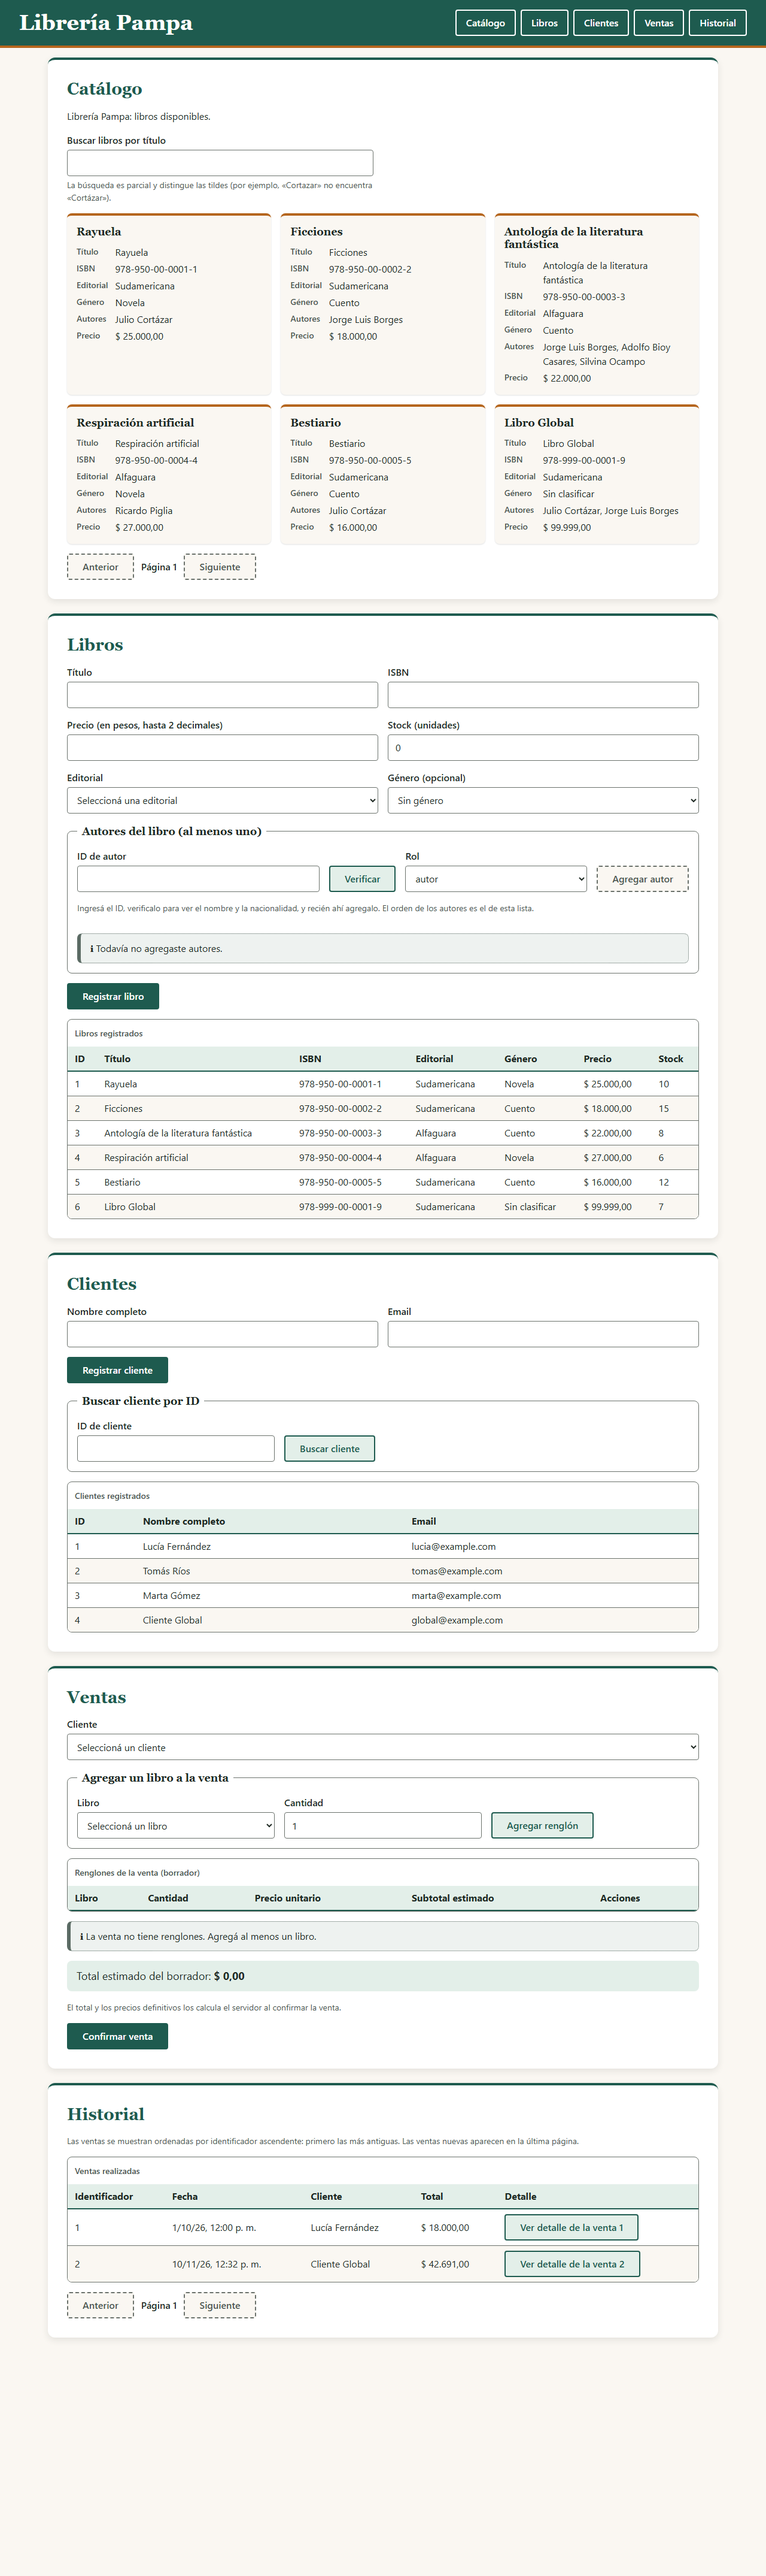
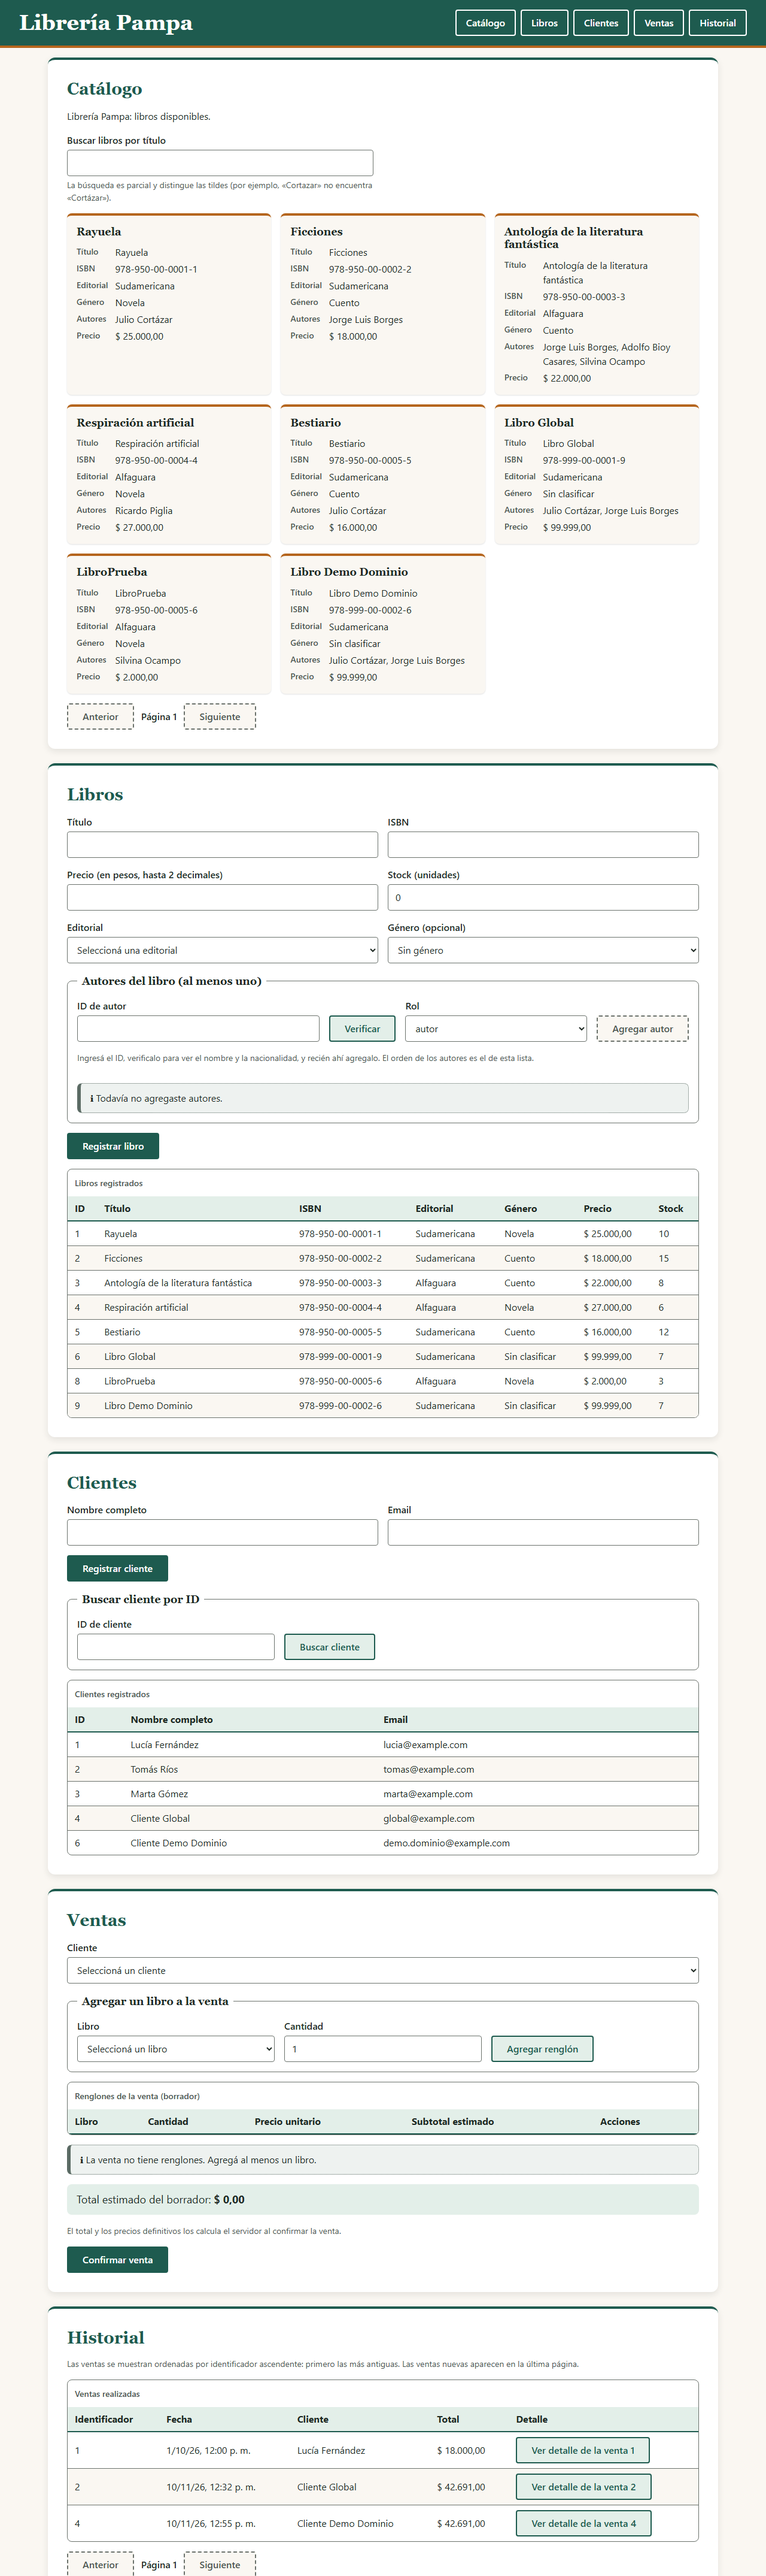
G-07: evidencia de redespliegue, dominio propio y DEPLOY.md actualizado

diff --git a/evidencia/pruebas-G01-G06-url-publica.md b/evidencia/pruebas-G01-G06-url-publica.md
@@ -1,7 +1,7 @@
 # Evidencia de pruebas G-01 a G-06
 
-- Ejecutado: 2026-11-10 12:32 (hora local)
-- Origen probado: `https://grupo1-chicas-frontend-libreria.ugpvou.easypanel.host` (URL pública HTTPS en Easypanel: frontend Nginx -> proxy `/api/` -> backend FastAPI -> PostgreSQL)
+- Ejecutado: 2026-11-10 12:55 (hora local)
+- Origen probado: `https://libreria.agusfontagnol.me` (HTTPS: frontend Nginx -> proxy `/api/` -> backend FastAPI -> PostgreSQL)
 - Datos: ficticios (seed del backend + los creados en estos casos)
 - Las respuestas son las devueltas por la API en la ejecución; no están editadas.
 
@@ -69,6 +69,10 @@ HTTP **200** ✅
   {
     "id": 5,
     "titulo": "Bestiario"
+  },
+  {
+    "id": 6,
+    "titulo": "Libro Global"
   }
 ]
 ```
@@ -121,15 +125,15 @@ HTTP **200** ✅
 
 **Alta con stock, sin género y con dos autorías**
 
-`POST /libros/` con cuerpo `{"titulo": "Libro Global", "isbn": "978-999-00-0001-9", "precio": "12345.50", "stock": 7, "editorial_id": 1, "genero_id": null, "autores": [{"autor_id": 1, "rol": "autor", "orden": 1}, {"autor_id": 2, "rol": "traductor", "orden": 2}]}`
+`POST /libros/` con cuerpo `{"titulo": "Libro Demo Dominio", "isbn": "978-999-00-0002-6", "precio": "12345.50", "stock": 7, "editorial_id": 1, "genero_id": null, "autores": [{"autor_id": 1, "rol": "autor", "orden": 1}, {"autor_id": 2, "rol": "traductor", "orden": 2}]}`
 
 HTTP **201** ✅
 
 ```json
 {
-  "id": 6,
-  "isbn": "978-999-00-0001-9",
-  "titulo": "Libro Global",
+  "id": 9,
+  "isbn": "978-999-00-0002-6",
+  "titulo": "Libro Demo Dominio",
   "precio": "12345.50",
   "stock": 7,
   "editorial": {
@@ -163,15 +167,15 @@ HTTP **201** ✅
 
 **Consultar el detalle del libro creado**
 
-`GET /libros/6`
+`GET /libros/9`
 
 HTTP **200** ✅
 
 ```json
 {
-  "id": 6,
-  "isbn": "978-999-00-0001-9",
-  "titulo": "Libro Global",
+  "id": 9,
+  "isbn": "978-999-00-0002-6",
+  "titulo": "Libro Demo Dominio",
   "precio": "12345.50",
   "stock": 7,
   "editorial": {
@@ -205,7 +209,7 @@ HTTP **200** ✅
 
 **Repetir el ISBN**
 
-`POST /libros/` con cuerpo `{"titulo": "Otro", "isbn": "978-999-00-0001-9", "precio": "10", "stock": 1, "editorial_id": 1, "autores": [{"autor_id": 1, "rol": "autor", "orden": 1}]}`
+`POST /libros/` con cuerpo `{"titulo": "Otro", "isbn": "978-999-00-0002-6", "precio": "10", "stock": 1, "editorial_id": 1, "autores": [{"autor_id": 1, "rol": "autor", "orden": 1}]}`
 
 HTTP **409** ✅
 
@@ -220,37 +224,37 @@ HTTP **409** ✅
 
 **Alta de cliente**
 
-`POST /clientes/` con cuerpo `{"nombre": "Cliente Global", "email": "global@example.com"}`
+`POST /clientes/` con cuerpo `{"nombre": "Cliente Demo Dominio", "email": "demo.dominio@example.com"}`
 
 HTTP **201** ✅
 
 ```json
 {
-  "id": 4,
-  "nombre": "Cliente Global",
-  "email": "global@example.com",
+  "id": 6,
+  "nombre": "Cliente Demo Dominio",
+  "email": "demo.dominio@example.com",
   "perfil": null
 }
 ```
 
 **Recuperarlo por ID**
 
-`GET /clientes/4`
+`GET /clientes/6`
 
 HTTP **200** ✅
 
 ```json
 {
-  "id": 4,
-  "nombre": "Cliente Global",
-  "email": "global@example.com",
+  "id": 6,
+  "nombre": "Cliente Demo Dominio",
+  "email": "demo.dominio@example.com",
   "perfil": null
 }
 ```
 
 **Repetir el email**
 
-`POST /clientes/` con cuerpo `{"nombre": "Otro", "email": "global@example.com"}`
+`POST /clientes/` con cuerpo `{"nombre": "Otro", "email": "demo.dominio@example.com"}`
 
 HTTP **409** ✅
 
@@ -265,19 +269,19 @@ HTTP **409** ✅
 
 **Registrar la venta**
 
-`POST /ventas/` con cuerpo `{"cliente_id": 4, "renglones": [{"libro_id": 6, "cantidad": 2}, {"libro_id": 2, "cantidad": 1}]}`
+`POST /ventas/` con cuerpo `{"cliente_id": 6, "renglones": [{"libro_id": 9, "cantidad": 2}, {"libro_id": 2, "cantidad": 1}]}`
 
 HTTP **201** ✅
 
 ```json
 {
-  "id": 2,
-  "fecha": "2026-11-10T15:32:45.710857Z",
+  "id": 4,
+  "fecha": "2026-11-10T15:55:29.973117Z",
   "total": "42691.00",
   "cliente": {
-    "id": 4,
-    "nombre": "Cliente Global",
-    "email": "global@example.com"
+    "id": 6,
+    "nombre": "Cliente Demo Dominio",
+    "email": "demo.dominio@example.com"
   },
   "renglones": [
     {
@@ -288,8 +292,8 @@ HTTP **201** ✅
       "subtotal": "18000.00"
     },
     {
-      "libro_id": 6,
-      "titulo": "Libro Global",
+      "libro_id": 9,
+      "titulo": "Libro Demo Dominio",
       "cantidad": 2,
       "precio_unitario": "12345.50",
       "subtotal": "24691.00"
@@ -300,19 +304,19 @@ HTTP **201** ✅
 
 **Consultar el detalle (equivale a abrirlo tras recargar la página)**
 
-`GET /ventas/2`
+`GET /ventas/4`
 
 HTTP **200** ✅
 
 ```json
 {
-  "id": 2,
-  "fecha": "2026-11-10T15:32:45.710857Z",
+  "id": 4,
+  "fecha": "2026-11-10T15:55:29.973117Z",
   "total": "42691.00",
   "cliente": {
-    "id": 4,
-    "nombre": "Cliente Global",
-    "email": "global@example.com"
+    "id": 6,
+    "nombre": "Cliente Demo Dominio",
+    "email": "demo.dominio@example.com"
   },
   "renglones": [
     {
@@ -323,8 +327,8 @@ HTTP **200** ✅
       "subtotal": "18000.00"
     },
     {
-      "libro_id": 6,
-      "titulo": "Libro Global",
+      "libro_id": 9,
+      "titulo": "Libro Demo Dominio",
       "cantidad": 2,
       "precio_unitario": "12345.50",
       "subtotal": "24691.00"
@@ -340,33 +344,33 @@ Detalle idéntico a la respuesta del alta: **sí**
 
 **Cambiar el precio del libro con PATCH**
 
-`PATCH /libros/6` con cuerpo `{"precio": "99999.00"}`
+`PATCH /libros/9` con cuerpo `{"precio": "99999.00"}`
 
 HTTP **200** ✅
 
 ```json
 {
-  "id": 6,
-  "titulo": "Libro Global",
+  "id": 9,
+  "titulo": "Libro Demo Dominio",
   "precio": "99999.00"
 }
 ```
 
 **Detalle de la venta anterior tras el PATCH**
 
-`GET /ventas/2`
+`GET /ventas/4`
 
 HTTP **200** ✅
 
 ```json
 {
-  "id": 2,
-  "fecha": "2026-11-10T15:32:45.710857Z",
+  "id": 4,
+  "fecha": "2026-11-10T15:55:29.973117Z",
   "total": "42691.00",
   "cliente": {
-    "id": 4,
-    "nombre": "Cliente Global",
-    "email": "global@example.com"
+    "id": 6,
+    "nombre": "Cliente Demo Dominio",
+    "email": "demo.dominio@example.com"
   },
   "renglones": [
     {
@@ -377,8 +381,8 @@ HTTP **200** ✅
       "subtotal": "18000.00"
     },
     {
-      "libro_id": 6,
-      "titulo": "Libro Global",
+      "libro_id": 9,
+      "titulo": "Libro Demo Dominio",
       "cantidad": 2,
       "precio_unitario": "12345.50",
       "subtotal": "24691.00"
@@ -433,6 +437,6 @@ HTTP **422** ✅
 ]
 ```
 
-Historial antes de los rechazos: [(1, '18000.00'), (2, '42691.00')]  
-Historial después de los rechazos: [(1, '18000.00'), (2, '42691.00')]  
+Historial antes de los rechazos: [(1, '18000.00'), (2, '42691.00'), (4, '42691.00')]  
+Historial después de los rechazos: [(1, '18000.00'), (2, '42691.00'), (4, '42691.00')]  
 Historial sin cambios: **sí**

diff --git a/DEPLOY.md b/DEPLOY.md
@@ -8,10 +8,10 @@ desplegar; no se inventan valores.
 
 | Dato | Valor |
 |---|---|
-| URL pública (frontend) | https://grupo1-chicas-frontend-libreria.ugpvou.easypanel.host |
-| Revisión desplegada (commit) | `8ccb10a` |
+| URL pública (frontend) | https://libreria.agusfontagnol.me |
+| Revisión desplegada (commit) | `cd4c7f3` (rama `main`) |
 | Repositorio / rama | https://github.com/agusfonta/Global-Programacion, rama `main` |
-| Fecha del despliegue | 2026-11-10 (COMPLETAR: hora exacta) |
+| Fecha del último despliegue | 2026-11-10, 13:02:47 (hora de Argentina; 16:02:47 GMT) |
 | Proyecto de Easypanel | `grupo1-chicas` (servicios `backend-libreria`, `frontend-libreria` y `db-libreria`) |
 
 ## Servicios
@@ -65,12 +65,23 @@ Debe imprimir `200`.
 El host interno de PostgreSQL de este despliegue es `grupo1-chicas_db-libreria:5432`, base
 `libreria` (servicio `db-libreria`). La contraseña solo existe en el panel.
 
+## Dominio propio
+
+El dominio `agusfontagnol.me` tiene el DNS en Namecheap, con un registro **A comodín** (`*`) hacia
+la IP del servidor, así que `libreria.agusfontagnol.me` resuelve sin crear registros nuevos. En
+`frontend-libreria` → Dominios se agregó el host `libreria.agusfontagnol.me` con HTTPS
+(Let's Encrypt), protocolo interno HTTP y puerto de destino 80. Al cambiar de dominio **no hace
+falta** modificar el código, el backend ni `API_UPSTREAM`: el frontend pide `/api/...` en
+ruta relativa y Nginx lo reenvía por la red interna.
+
 ## Proxy
 
 Nginx (`frontend/default.conf.template`) sirve los archivos estáticos de `public/` y reenvía
 `/api/` al backend quitando el prefijo: la barra final de `proxy_pass` hace que `/api/libros/`
-llegue a FastAPI como `/libros/`. El navegador habla con un solo origen, por eso el backend no
-necesita CORS. El Dockerfile limita la sustitución de variables a `API_UPSTREAM`
+llegue a FastAPI como `/libros/`. El navegador habla con un solo origen (el dominio del frontend),
+por eso el backend no necesita CORS ni cambios al cambiar de dominio. Comprobado: una petición
+con `Origin: https://libreria.agusfontagnol.me` a `/api/libros/` responde 200 sin cabeceras CORS,
+que no hacen falta. El Dockerfile limita la sustitución de variables a `API_UPSTREAM`
 (`NGINX_ENVSUBST_FILTER`).
 
 ## Carga inicial de datos
@@ -96,7 +107,7 @@ Registrar acá lo observado (con datos ficticios), y guardar capturas en [eviden
 
 | Verificación | Resultado |
 |---|---|
-Ejecutado el 2026-11-10 sobre la URL pública. Registro completo en
+Ejecutado el 2026-11-10 sobre `https://libreria.agusfontagnol.me`. Registro completo en
 [evidencia/pruebas-G01-G06-url-publica.md](evidencia/pruebas-G01-G06-url-publica.md)
 (19 verificaciones, todas correctas) y capturas
 [publica-escritorio-1280.png](evidencia/publica-escritorio-1280.png) y
@@ -112,7 +123,7 @@ Ejecutado el 2026-11-10 sobre la URL pública. Registro completo en
 | G-04 venta con dos renglones y detalle tras recargar | OK (201; detalle idéntico; total 42.691,00) |
 | G-05 `PATCH /libros/{id}` y venta anterior sin cambios | OK (la venta conserva 12.345,50) |
 | G-06 rechazos 409 y 422, historial sin cambios | OK (409, 409 y 422; historial igual) |
-| G-07 datos tras redespliegue | COMPLETAR (redesplegar y comprobar que siguen los datos) |
+| G-07 imagen se construye, HTTPS y datos tras redespliegue | OK: ver [evidencia/G07-redespliegue.md](evidencia/G07-redespliegue.md). Tras redesplegar backend y frontend, salud 200 y los 8 libros, 5 clientes y 3 ventas (con importes) idénticos |
 
 No se guardaron capturas de los mensajes de error en pantalla (409/422 en la interfaz):
 COMPLETAR con capturas manuales desde la URL pública.
@@ -142,5 +153,7 @@ El grupo ya tenía un backend desplegado a mano como contenedor suelto (puerto p
 contra otra base de PostgreSQL. Se dejó funcionando y no se modificó. El servicio App de esta guía
 usa su propia base (`db-libreria`) y no comparte datos con aquel.
 
-El servicio `backend-libreria` no debe tener dominio público: Easypanel crea uno automático y hay
-que borrarlo desde Dominios (el frontend llega al backend por la red interna).
+El servicio `backend-libreria` no tiene dominio público: el que Easypanel crea automáticamente se
+borró desde Dominios y el frontend llega al backend por la red interna. Con el dominio propio ya
+configurado, también se borró el dominio automático del frontend; `https://libreria.agusfontagnol.me`
+es la única URL pública.

diff --git a/evidencia/G07-redespliegue.md b/evidencia/G07-redespliegue.md
@@ -1,0 +1,49 @@
+# Evidencia G-07 · Despliegue y persistencia tras redespliegue
+
+- Ejecutado: 2026-11-10 (hora local de Argentina, UTC-3)
+- URL pública: https://libreria.agusfontagnol.me
+- Servicios redesplegados desde el panel de Easypanel con el botón **Implementar**: `backend-libreria` y `frontend-libreria`
+- Revisión desplegada: commit `cd4c7f3` de la rama `main` (https://github.com/agusfonta/Global-Programacion)
+- Datos: ficticios
+
+## 1. La imagen del frontend se construye
+
+El historial de implementaciones de `frontend-libreria` muestra la implementación nueva con resultado
+**Success**, fechada `Tue, 10 Nov 2026 16:02:47 GMT` (13:02:47 en Argentina), tomada del commit `cd4c7f3`.
+El build usa `frontend/Dockerfile` (base `nginx:1.30-alpine`) con Ruta de compilación `/frontend`.
+En `backend-libreria` el historial muestra la implementación nueva con el mismo commit (`cd4c7f3`).
+(Evidencia local previa del build en `imagen-frontend-local.md`.)
+
+## 2. La URL pública abre por HTTPS y la API responde 200 en salud
+
+Comprobado tras el redespliegue:
+
+| Petición | Resultado |
+|---|---|
+| `GET https://libreria.agusfontagnol.me/` | HTTP 200, certificado verificado (Let's Encrypt) |
+| `GET https://libreria.agusfontagnol.me/api/health/ready` | HTTP 200, `{"estado":"ok"}` |
+
+La API no dejó de responder durante el redespliegue: se consultó `/api/health/ready` cada ~5 s durante
+y después de implementar y siempre dio 200 (Easypanel cambia de contenedor sin cortar el servicio).
+
+## 3. Los datos siguen disponibles
+
+Se tomó una copia de las respuestas de la API **antes** de redesplegar y se comparó con las
+respuestas **después** (listados `limit=100` y detalle de cada venta). Resultado:
+
+| Dato | Antes | Después | Iguales |
+|---|---|---|---|
+| Libros (`GET /api/libros/`) | 8 | 8 | sí |
+| Clientes (`GET /api/clientes/`) | 5 | 5 | sí |
+| Ventas (`GET /api/ventas/`) | ids 1, 2 y 4 | ids 1, 2 y 4 | sí |
+| Detalle de cada venta (renglones e importes) | totales 18000.00, 42691.00 y 42691.00 | idénticos | sí |
+
+Libros presentes tras el redespliegue: Rayuela, Ficciones, Antología de la literatura fantástica,
+Respiración artificial, Bestiario, Libro Global, LibroPrueba y Libro Demo Dominio.
+
+Captura de la aplicación después del redespliegue: [G07-tras-redespliegue-1280.png](G07-tras-redespliegue-1280.png).
+
+## Conclusión
+
+La imagen del frontend se construye, la URL pública abre por HTTPS, la API devuelve 200 en salud y
+los datos (libros, clientes y ventas con sus importes) siguen idénticos tras redesplegar.
